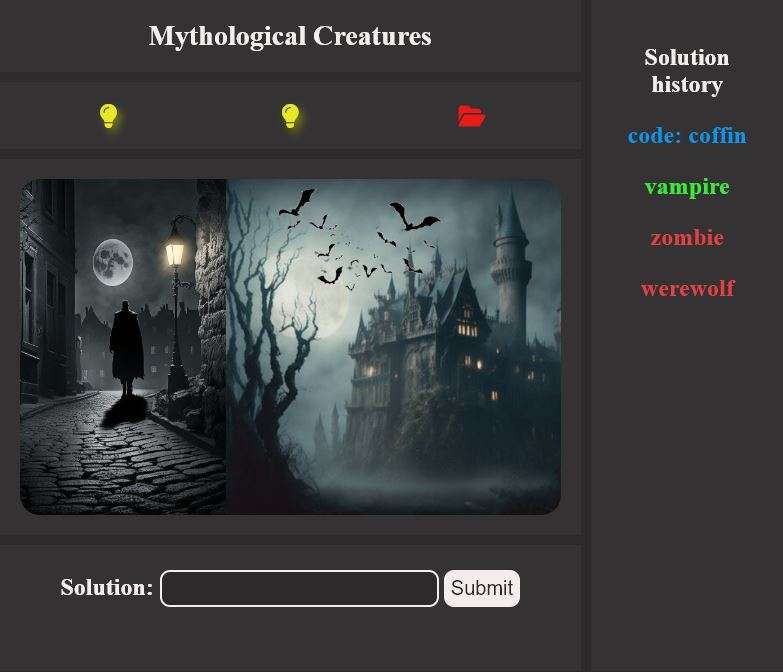
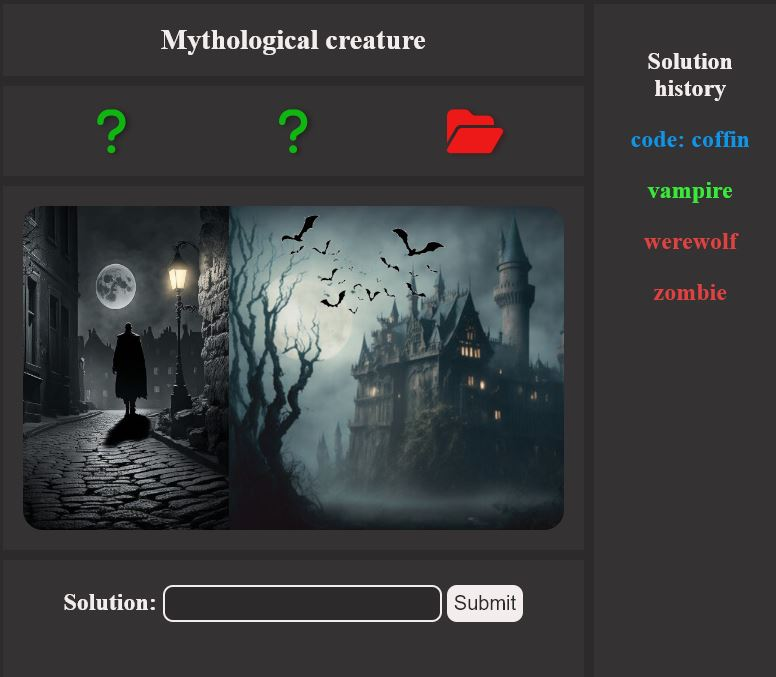
fix dummy images and their display, correct mistakes in text

diff --git a/src/styles/responsivity.scss b/src/styles/responsivity.scss
@@ -2,14 +2,13 @@
 
 // Small devices (landscape phones, less than 768px)
 @media (max-width: 767.98px) {
-  //TODO: style
   .dummy-image-container {
-    width: 85vw;
-    //border: 1px solid red;
+    margin: 20px auto;
+
     .dummy-image-small {
-      //border: 1px solid blue;
-      width: 80vw;
+      width: 93%;
     }
+
     .dummy-image-large {
       display: none;
     }
@@ -59,14 +58,16 @@
 
 // Medium devices (tablets, less than 992px)
 @media (min-width: 768px) and (max-width: 991.98px) {
-  //TODO: style
   .dummy-image-container {
-    width: 700px;
+    width: 680px;
+    margin: 20px auto;
+
     .dummy-image-small {
       display: none;
     }
+
     .dummy-image-large {
-      width: 680px;
+      width: 650px;
     }
   }
   .riddle-body {
@@ -113,13 +114,14 @@
 }
 
 //Large devices (desktops, less than 1200px) to X-Large devices (large desktops, less than 1400px)
-@media (min-width: 992px)  {
-  //TODO: style
+@media (min-width: 992px) {
   .dummy-image-container {
     width: 700px;
+
     .dummy-image-small {
       display: none;
     }
+
     .dummy-image-large {
       width: 680px;
     }

diff --git a/src/styles.scss b/src/styles.scss
@@ -358,11 +358,8 @@ body {
             cursor: pointer;
           }
         }
-
-
       }
     }
-
 
     .content {
       .picture-screen-container {
@@ -400,7 +397,6 @@ body {
     }
 
     .solution-container {
-      //background-color: #0e94e8;
       @include center-content;
       text-align: center;
 
@@ -411,10 +407,6 @@ body {
         .form-control {
           font-weight: bold;
           font-size: 20px;
-          //background-color: pink;
-          //color: white;
-          //caret-color: black;
-          //border: 2px solid black;
           border-radius: 10px;
           padding: 5px;
           max-width: 60%;
@@ -425,6 +417,5 @@ body {
         }
       }
     }
-
   }
 }
